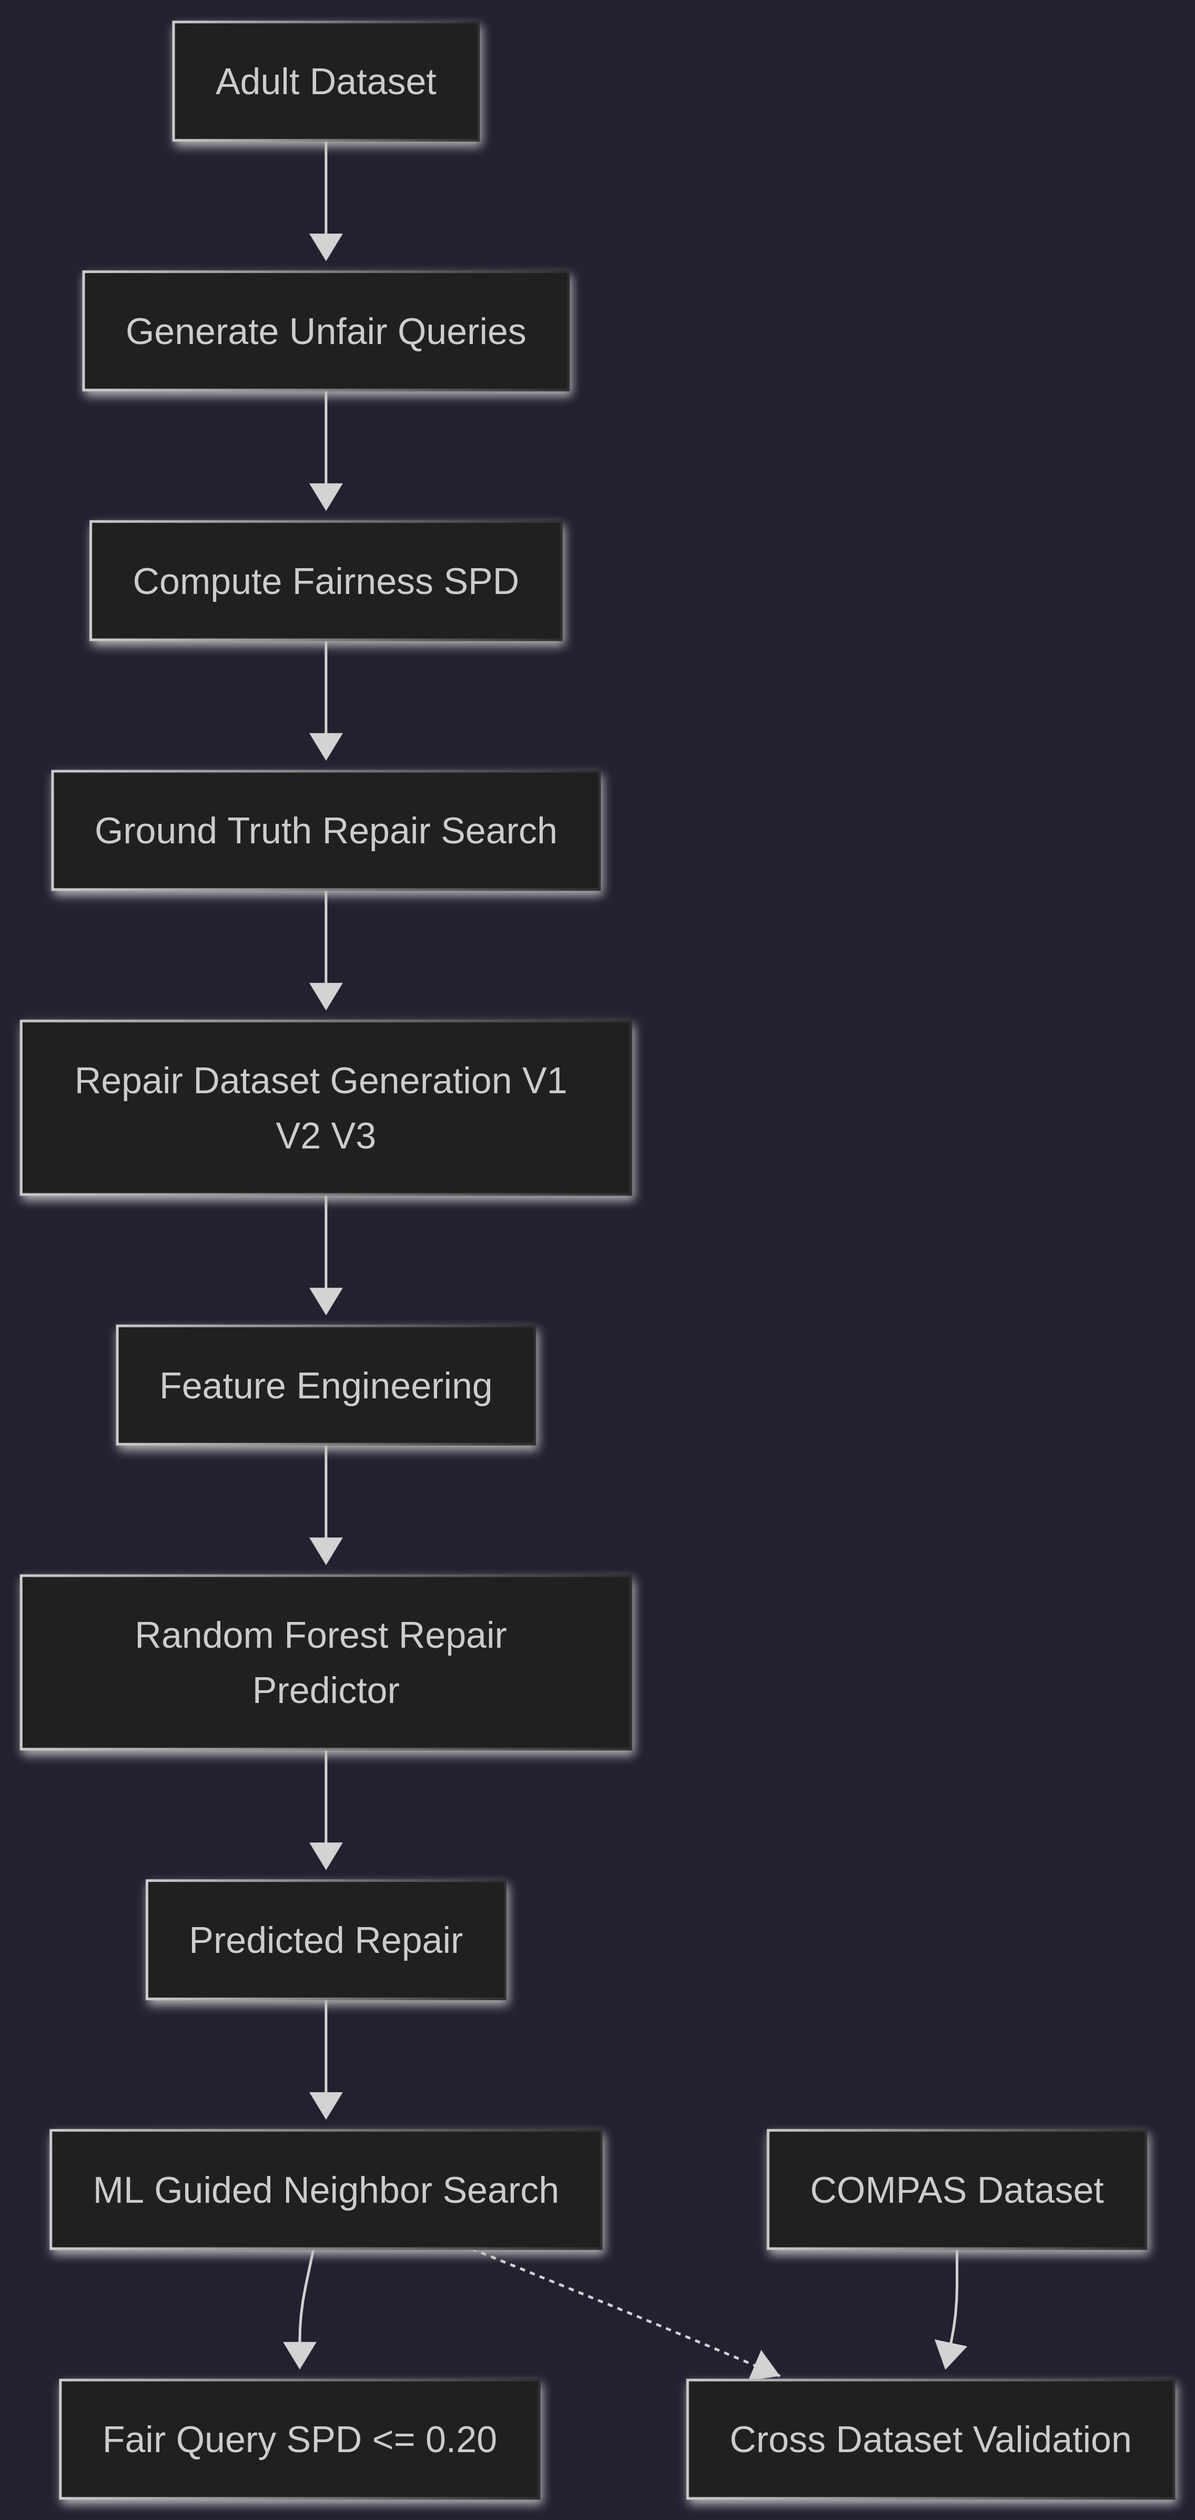
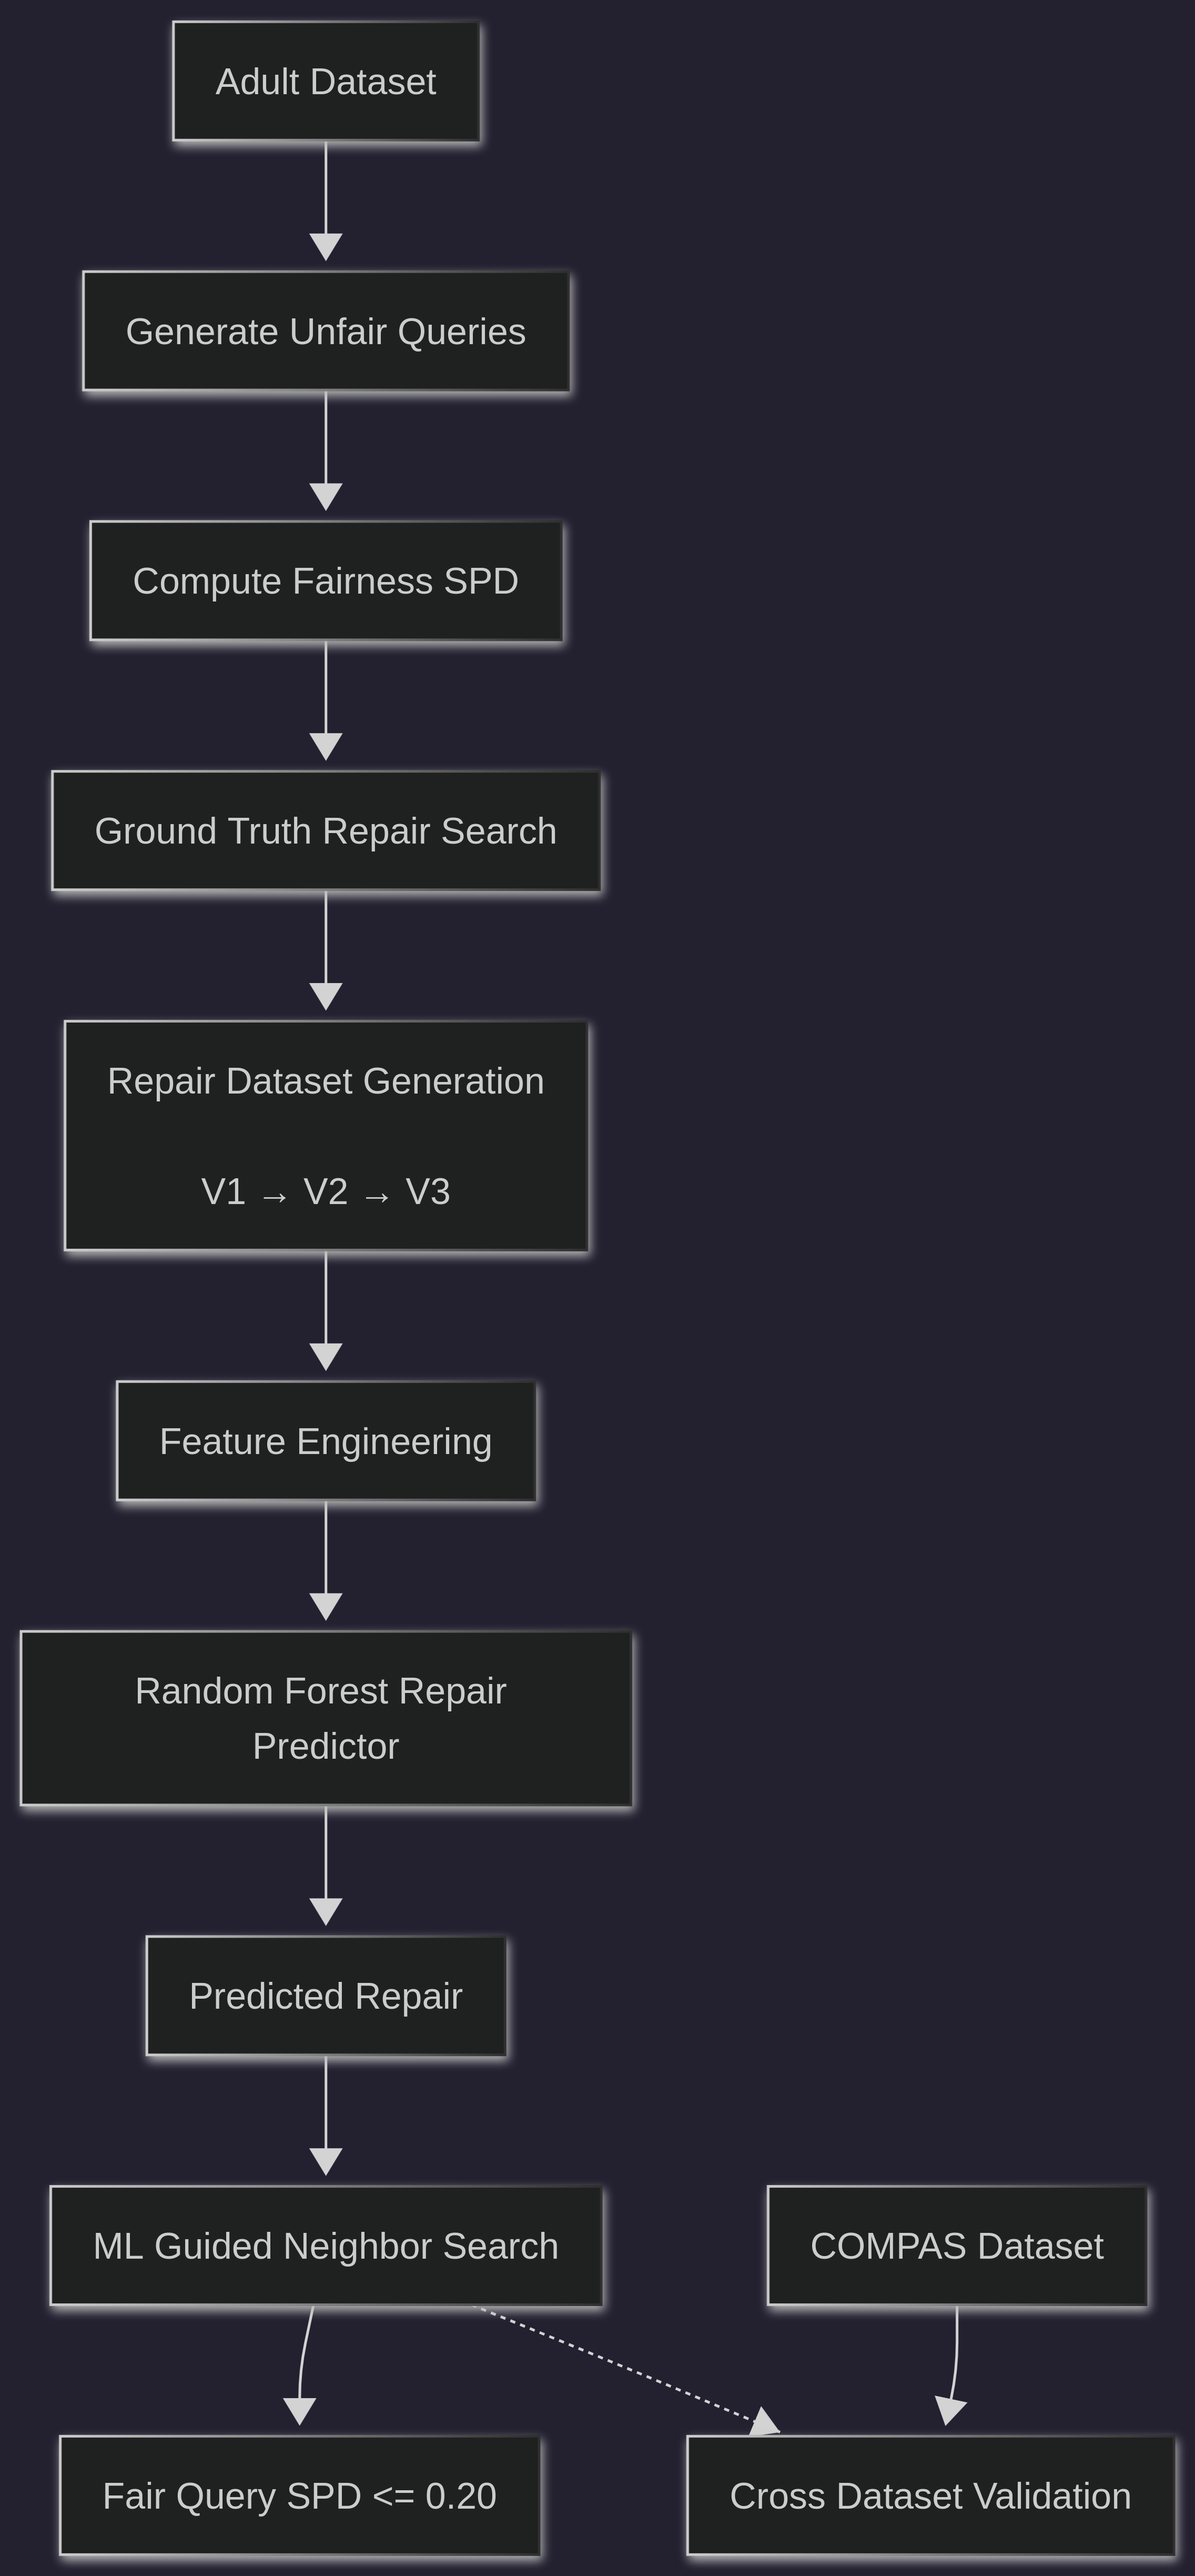
Updating README

diff --git a/README.md b/README.md
@@ -5,6 +5,9 @@ Machine Learning Guided Fair Query Repair with Cross-Dataset Adaptation.
 ---
 
 ## Project Overview
+## Framework
+
+![Framework Pipeline](figures/framework_pipeline.png)
 
 Modern database queries may satisfy all SQL predicates while still violating real-world fairness requirements. This project investigates how unfair queries can be automatically repaired by modifying query predicates so that the resulting query satisfies fairness constraints.
 
@@ -74,6 +77,10 @@ The framework was adapted from the Adult Income dataset to the COMPAS recidivism
 | ---------------- | ------------ |
 | Pure ML Repair   | 28%          |
 | ML-Guided Search | 87%          |
+
+## Feature Importance
+
+![Feature Importance](figures/feature_importance.png)
 
 ### Fairness Improvement
 
